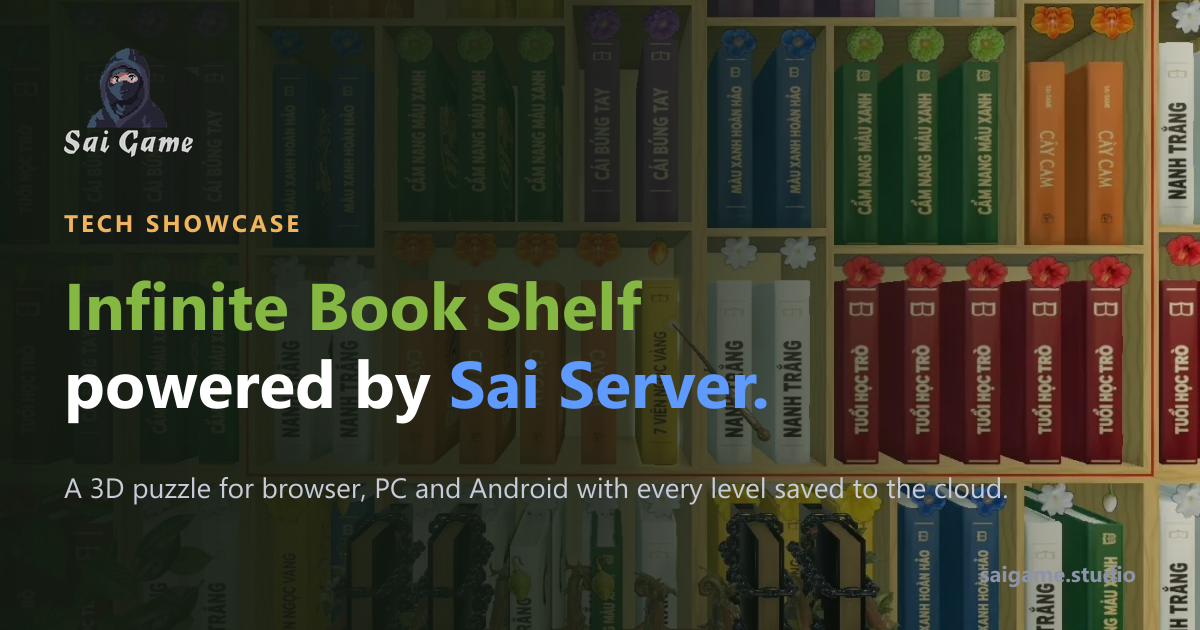
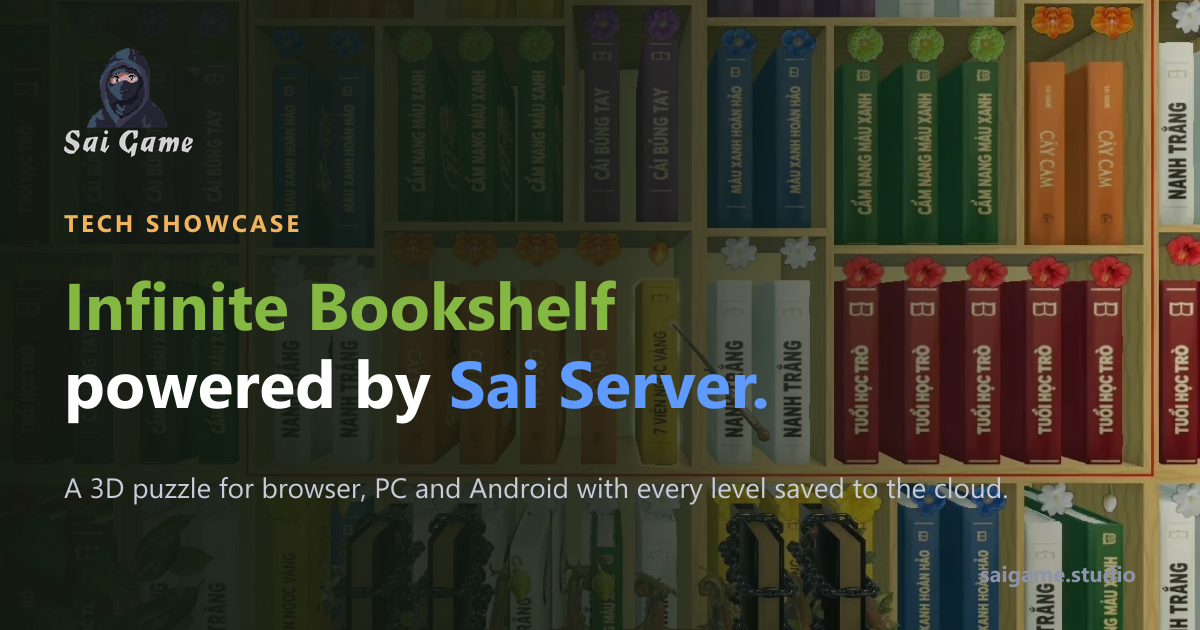
fix game name

Changed region(s): [[0.37, 0.4524, 0.555, 0.5429]]

diff --git a/web/components/pages/infinite-book-shelf/content.ts b/web/components/pages/infinite-book-shelf/content.ts
@@ -4,7 +4,7 @@
 // Facts and numbers follow section 4 of the brief, except platforms: the game ships to the stores in STORES.
 // Do not inflate the numbers.
 
-export const GAME_NAME = "Infinite Book Shelf";
+export const GAME_NAME = "Infinite Bookshelf";
 
 export type Store = {
   id: string;
@@ -49,7 +49,7 @@ export const SHOTS = {
 export const OG_IMAGE = { n: 14, file: "og-image.png", width: 1200, height: 630, ready: true };
 
 export const COPY = {
-  metaTitle: "Infinite Book Shelf – Built on Sai Server",
+  metaTitle: "Infinite Bookshelf – Built on Sai Server",
   metaDescription:
     "A 3D puzzle for browser, PC and Android where every book, shelf and flower is saved to the cloud. Built with Unity and Sai Server. Out now on Unity Play and Itch.io, coming to Steam and Google Play.",
 
@@ -75,13 +75,13 @@ export const COPY = {
     tagline: "Never run out of books.",
     /** YouTube video id (https://youtu.be/0u0mkD7qBFY) */
     videoId: "0u0mkD7qBFY",
-    videoTitle: "Infinite Book Shelf gameplay video",
+    videoTitle: "Infinite Bookshelf gameplay video",
   },
 
   server: {
     kicker: "Powered by Sai Server",
     title: "What the game asks of its backend",
-    lead: "Infinite Book Shelf uses two Sai Server modules for **sign-in** and **cloud saves**. Here is what each one does in the game.",
+    lead: "Infinite Bookshelf uses two Sai Server modules for **sign-in** and **cloud saves**. Here is what each one does in the game.",
     features: [
       { name: "SaiAuth", text: "Google sign-in through the backend, token sessions with auto refresh, and auto-login on return. A session guard sends the player back to login safely when the refresh token expires." },
       { name: "GamerProgress", tag: "custom game_data", text: "The whole level is stored in the cloud: the seed, the position of every moved book, the tray contents and the Fuzzy Fruit count." },

diff --git a/web/components/pages/product-sai-server/content.ts b/web/components/pages/product-sai-server/content.ts
@@ -13,7 +13,7 @@ export const SHOTS = {
   lua: { file: "lua-script-manager.webp", width: 784, height: 851, alt: "The Lua Script Manager in the Unity Inspector: buttons to create battle scripts from templates and the list of loaded .lua files, each with an Upload New button" },
 } satisfies Record<string, Shot>;
 
-/** the Infinite Book Shelf showcase, a game built on Sai Server */
+/** the Infinite Bookshelf showcase, a game built on Sai Server */
 export const SHOWCASE = {
   href: "/products/infinite-book-shelf/",
   image: { file: "/images/products/infinite-book-shelf/hero.webp", width: 1400, height: 788 },
@@ -154,7 +154,7 @@ export const COPY = {
 
   showcase: {
     kicker: "Built on Sai Server",
-    title: "Infinite Book Shelf",
+    title: "Infinite Bookshelf",
     text: "A 3D puzzle for browser, PC and Android. Sign-in and cloud saves run on Sai Server, so every book, shelf and flower is kept across devices.",
     link: "See the tech showcase",
     alt: "Wooden bookshelves packed with colored books, flowers blooming above each sorted compartment, and a magic wand cursor picking up a yellow book",

diff --git a/web/components/pages/post-thu-thach-lam-game/PostBody.tsx b/web/components/pages/post-thu-thach-lam-game/PostBody.tsx
@@ -1,6 +1,6 @@
 // Body of the "Game Making Challenge" post (/blog/game-making-challenge/), rendered inside BlogPostLayout.
 // Strings are English source text passed through t(); vi/ja live in i18n/vi.json and i18n/ja.json.
-// Project names (Hạnh đầu đà, Thánh Gióng, SG11, Infinite Book Shelf) are shown as is.
+// Project names (Hạnh đầu đà, Thánh Gióng, SG11, Infinite Bookshelf) are shown as is.
 import { getI18n } from "@/lib/i18n";
 import s from "./PostBody.module.css";
 
@@ -24,7 +24,7 @@ const MONTHS: Month[] = [
   { label: "July" },
   { label: "August" },
   { label: "September" },
-  { label: "October", game: { label: "Infinite Book Shelf", href: "/products/infinite-book-shelf/" } },
+  { label: "October", game: { label: "Infinite Bookshelf", href: "/products/infinite-book-shelf/" } },
   { label: "November" },
   { label: "December" },
 ];

diff --git a/web/components/TopMenu.tsx b/web/components/TopMenu.tsx
@@ -20,7 +20,7 @@ type SubLink = { id: string; href: string; label: string; translate: boolean; /*
 
 const LINKS_BEFORE_GAMES: Link[] = [{ key: "home", id: "menu-item-17", href: "/", label: "Home" }];
 const GAMES: SubLink[] = [
-  { id: "menu-item-games-infinite-book-shelf", href: "/products/infinite-book-shelf/", label: "Infinite Book Shelf", translate: false },
+  { id: "menu-item-games-infinite-book-shelf", href: "/products/infinite-book-shelf/", label: "Infinite Bookshelf", translate: false },
   { id: "menu-item-649", href: "/games/purgatory", label: "Purgatory", translate: false },
   { id: "menu-item-39", href: "/games/the-immortal", label: "The Immortal", translate: true },
   { id: "menu-item-40", href: "/games/the-watcher", label: "The Watcher", translate: false },

diff --git a/web/components/pages/blog/posts.ts b/web/components/pages/blog/posts.ts
@@ -16,10 +16,10 @@ export type BlogPost = {
 export const BLOG_POSTS: BlogPost[] = [
   {
     slug: "game-making-challenge",
-    description: "SaiGame's Game Making Challenge: the games made month by month, from Hạnh đầu đà and Thánh Gióng to SG11 and Infinite Book Shelf.",
+    description: "SaiGame's Game Making Challenge: the games made month by month, from Hạnh đầu đà and Thánh Gióng to SG11 and Infinite Bookshelf.",
     title: "Game Making Challenge",
     date: "2026-02-01",
-    excerpt: "January: Hạnh đầu đà. March: Thánh Gióng. June: SG11. October: Infinite Book Shelf.",
+    excerpt: "January: Hạnh đầu đà. March: Thánh Gióng. June: SG11. October: Infinite Bookshelf.",
   },
   {
     slug: "sai-game-lore-1",

diff --git a/web/components/pages/games/games.ts b/web/components/pages/games/games.ts
@@ -21,8 +21,8 @@ export type Game = {
 export const GAMES: Game[] = [
   {
     slug: "infinite-book-shelf",
-    description: "Infinite Book Shelf is a 3D puzzle game for browser, PC and Android where every book, shelf and flower is saved to the cloud, powered by Sai Server.",
-    title: "Infinite Book Shelf",
+    description: "Infinite Bookshelf is a 3D puzzle game for browser, PC and Android where every book, shelf and flower is saved to the cloud, powered by Sai Server.",
+    title: "Infinite Bookshelf",
     platform: "Itch.io · Unity Play",
     cover: "/images/products/infinite-book-shelf/hero.webp",
     summary: "A 3D puzzle for browser, PC and Android where every book, shelf and flower is saved to the cloud, so no progress is lost.",

diff --git a/web/next.config.ts b/web/next.config.ts
@@ -37,7 +37,7 @@ const nextConfig: NextConfig = {
       { source: "/co-ban-sai-server", destination: "/products/", permanent: true },
       // the standalone Sai Server landing was merged into /products/sai-server/ (one page for the "Sai Server" search)
       { source: "/sai-server", destination: "/products/sai-server/", statusCode: 301 },
-      // the Infinite Book Shelf page first shipped at /products/infinity-book-shelf/
+      // the Infinite Bookshelf page first shipped at /products/infinity-book-shelf/
       { source: "/products/infinity-book-shelf", destination: "/products/infinite-book-shelf/", permanent: true },
     ];
     return redirects.flatMap((redirect) => [

diff --git a/web/components/pages/product-landing/ProductLanding.module.css b/web/components/pages/product-landing/ProductLanding.module.css
@@ -227,7 +227,7 @@
   border-bottom: 1px solid var(--line);
 }
 
-/* numbered step / card rows (the "Where to play" cards of the book shelf page) */
+/* numbered step / card rows (the "Where to play" cards of the bookshelf page) */
 .cardsSection {
   padding-top: clamp(48px, 6vw, 72px);
   border-top: 1px solid var(--line);
@@ -527,7 +527,7 @@
   border-top: 1px solid var(--line);
 }
 
-/* a highlighted card linking to another page (Sai Play, the book shelf showcase) */
+/* a highlighted card linking to another page (Sai Play, the bookshelf showcase) */
 .showcase {
   margin-top: 40px;
   display: grid;

diff --git a/web/components/pages/infinite-book-shelf/InfiniteBookShelf.tsx b/web/components/pages/infinite-book-shelf/InfiniteBookShelf.tsx
@@ -1,4 +1,4 @@
-// /products/infinite-book-shelf: a tech showcase of Infinite Book Shelf, a Unity game (browser, PC, Android) built on Sai Server.
+// /products/infinite-book-shelf: a tech showcase of Infinite Bookshelf, a Unity game (browser, PC, Android) built on Sai Server.
 // Not Kubio markup: styled by InfiniteBookShelf.module.css; the page keeps the site's Kubio nav and footer around it.
 // All copy lives in content.ts. Screenshots render as numbered placeholders until their `ready` flag is set.
 import ImageLightbox from "@/components/ImageLightbox";

diff --git a/web/components/pages/products/ProductsJourney.tsx b/web/components/pages/products/ProductsJourney.tsx
@@ -15,7 +15,7 @@ const SAMPLE_SGEM = "1,250";
 // games built on Sai Server, first shipped first; each links to its tech showcase page
 const SHOWCASES = [
   {
-    name: "Infinite Book Shelf",
+    name: "Infinite Bookshelf",
     href: "/products/infinite-book-shelf/",
     image: { src: "/images/products/infinite-book-shelf/hero.webp", width: 1400, height: 788 },
     alt: "Wooden bookshelves packed with colored books, flowers blooming above each sorted compartment, and a magic wand cursor picking up a yellow book",

diff --git a/web/components/pages/product-sai-play/content.ts b/web/components/pages/product-sai-play/content.ts
@@ -7,7 +7,7 @@
 /** sample values for the illustrations; not real player data */
 export const SAMPLE = {
   balance: "1,250",
-  game: { name: "Infinite Book Shelf", cover: "/images/products/infinite-book-shelf/hero.webp", level: 12, xp: 64 },
+  game: { name: "Infinite Bookshelf", cover: "/images/products/infinite-book-shelf/hero.webp", level: 12, xp: 64 },
 };
 
 export const COPY = {

diff --git a/sg01-LandingPageBrief.md b/sg01-LandingPageBrief.md
@@ -1,10 +1,10 @@
-# Landing Page Brief: Infinite Book Shelf (tech showcase)
+# Landing Page Brief: Infinite Bookshelf (tech showcase)
 
 > For the agent building the page. Read all of this before you start. Lines marked **[TODO]** must be confirmed with the owner. Do not make up a value for them.
 
 ## 1. Goal
 
-Build a one-page landing site for **Infinite Book Shelf**. It is a 3D puzzle game where players sort books on tropical bookshelves, and it runs in the browser (Unity WebGL).
+Build a one-page landing site for **Infinite Bookshelf**. It is a 3D puzzle game where players sort books on tropical bookshelves, and it runs in the browser (Unity WebGL).
 
 The page has two jobs, in this order:
 
@@ -115,7 +115,7 @@ Optional: a short gameplay video `trailer.webm` (≤ 30 s) to autoplay muted in 
 - No tracking scripts unless the owner asks.
 
 ## 7. Open questions for the owner **[TODO]**
-1. Tagline (the game name is final: Infinite Book Shelf).
+1. Tagline (the game name is final: Infinite Bookshelf).
 2. What exactly is Sai Play, and what are its URL and logo?
 3. Play URL for the WebGL build.
 4. Can Easy Mode (paid) be mentioned?
